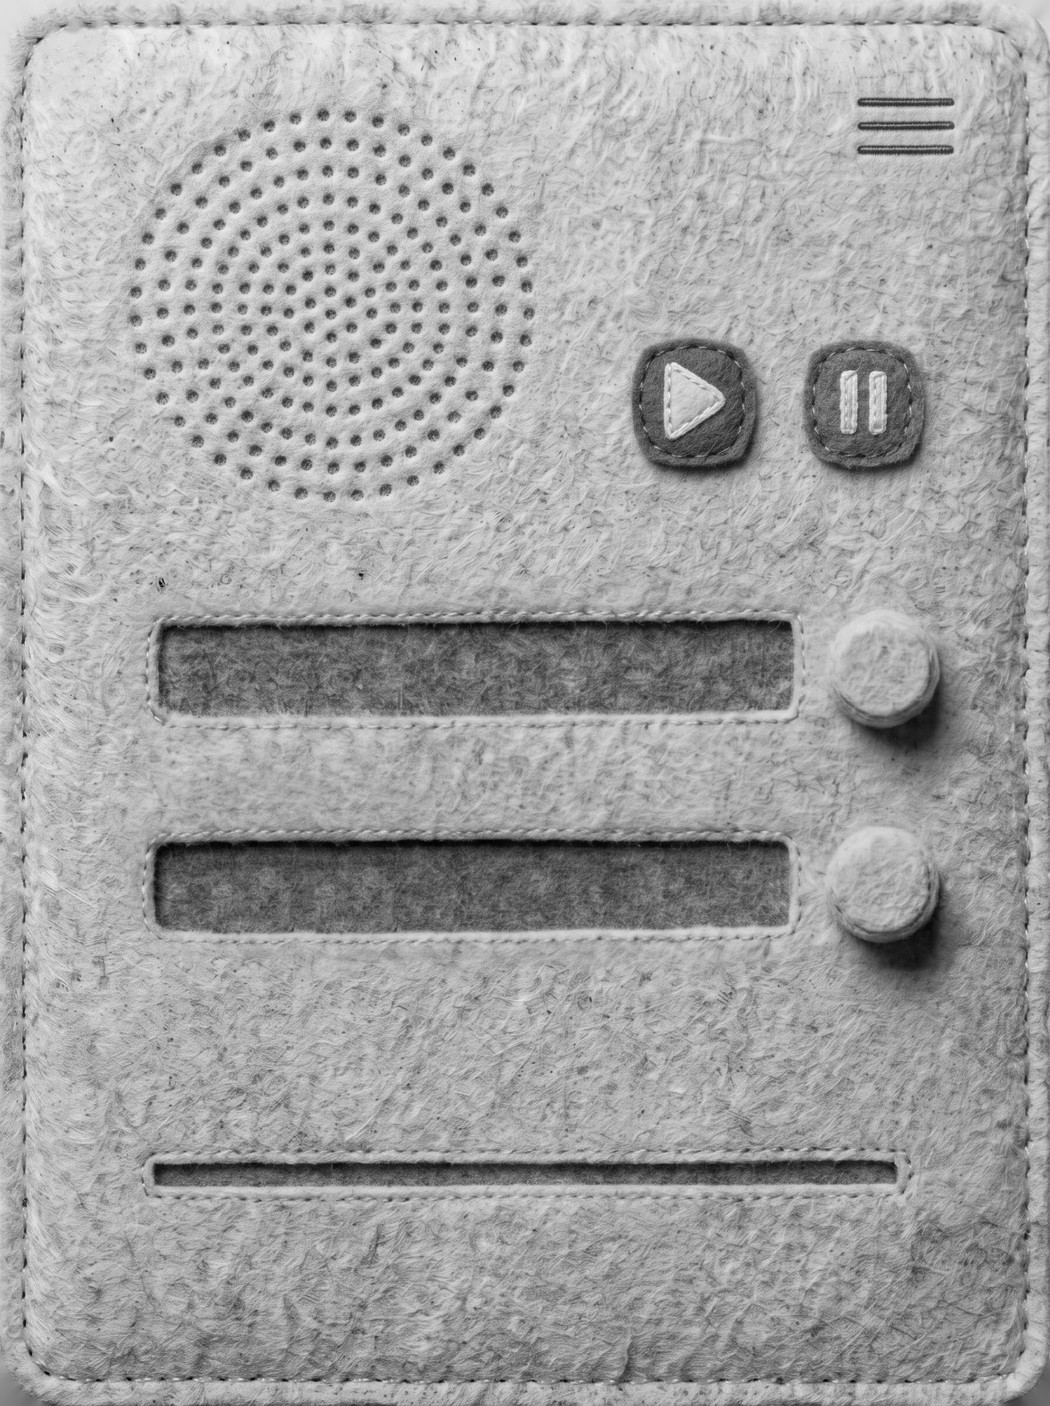
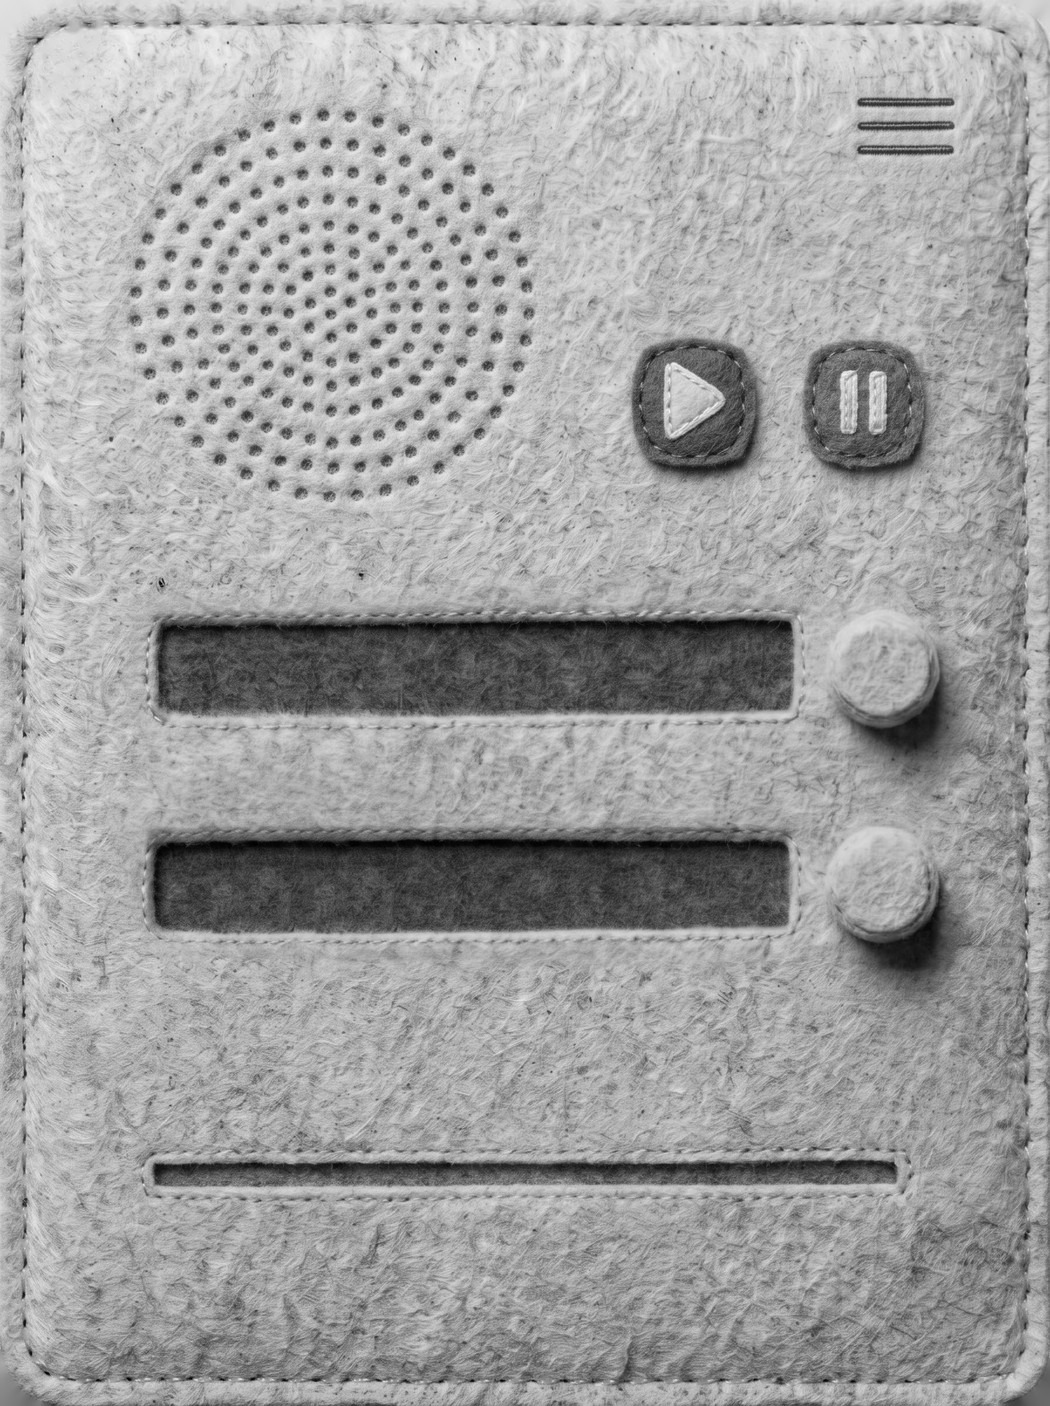
Audio Player: darker windows, the sound's text a little lower; campfire and guitar to start with
Claude-Session: https://claude.ai/code/session_01NDsvQ4w6b4M39K7iEhCswz

Changed region(s): [[0.1219, 0.5811, 0.7619, 0.6728], [0.1524, 0.4282, 0.7619, 0.5199]]

diff --git a/src/ambient.js b/src/ambient.js
@@ -27,7 +27,7 @@ export const SLEEP_TIMES = [0, 15, 30, 60]; // minutes (0: keep playing)
 // sound / music: the chosen one on each channel (null: off); playing: sounding now; volume 0..1;
 // showPlayer: the floating tape player; sleep: minutes until it fades out; pos: where the player was left;
 // recording: a voice is being recorded (the player's little red light)
-let state = { sound: null, music: null, playing: false, volume: 0.4, rate: 1, showPlayer: false, sleep: 0, sleepAt: null, pos: null, recording: false };
+let state = { sound: 'campfire', music: 'gentle-guitar', playing: false, volume: 0.4, rate: 1, showPlayer: false, sleep: 0, sleepAt: null, pos: null, recording: false };
 const listeners = new Set();
 const set = (patch) => {
   state = { ...state, ...patch };
@@ -96,7 +96,7 @@ const syncAll = () => { sync('sound'); sync('music'); };
 
 // Play: whatever is chosen (the first sound if nothing is chosen yet)
 export function playAmbient() {
-  if (!state.sound && !state.music) set({ sound: SOUNDS[0].id });
+  if (!state.sound && !state.music) set({ sound: 'campfire', music: 'gentle-guitar' }); // the starting combination
   set({ playing: true });
   syncAll();
   armSleep(state.sleep);

diff --git a/src/components/TapePlayer.js b/src/components/TapePlayer.js
@@ -91,7 +91,7 @@ export default function TapePlayer({ onMenu }) {
         <Pressable onPress={onMenu} hitSlop={4} style={at(1420, 120, 260, 180)} accessibilityRole="button" accessibilityLabel={t('Music and Sounds')} />
         <Pressable onPress={playAmbient} style={at(PLAY.x, PLAY.y, PLAY.w, PLAY.h)} accessibilityRole="button" accessibilityLabel={t('Play')} />
         <Pressable onPress={pauseAmbient} style={at(1360, 562, 230, 250)} accessibilityRole="button" accessibilityLabel={t('Pause')} />
-        {windowText([275, 1056, 1075, 150], name(s.sound) || t('Select sound'), !s.sound)}
+        {windowText([275, 1067, 1075, 150], name(s.sound) || t('Select sound'), !s.sound)}
         {windowText([262, 1437, 1082, 150], name(s.music) || t('Select music'), !s.music)}
         {/* the knobs stay put; tap one to click to the next choice */}
         <Pressable onPress={() => stepAmbient('sound')} style={at(1386, 1010, 250, 260)} accessibilityRole="button" accessibilityLabel={name(s.sound) || t('Select sound')} />
